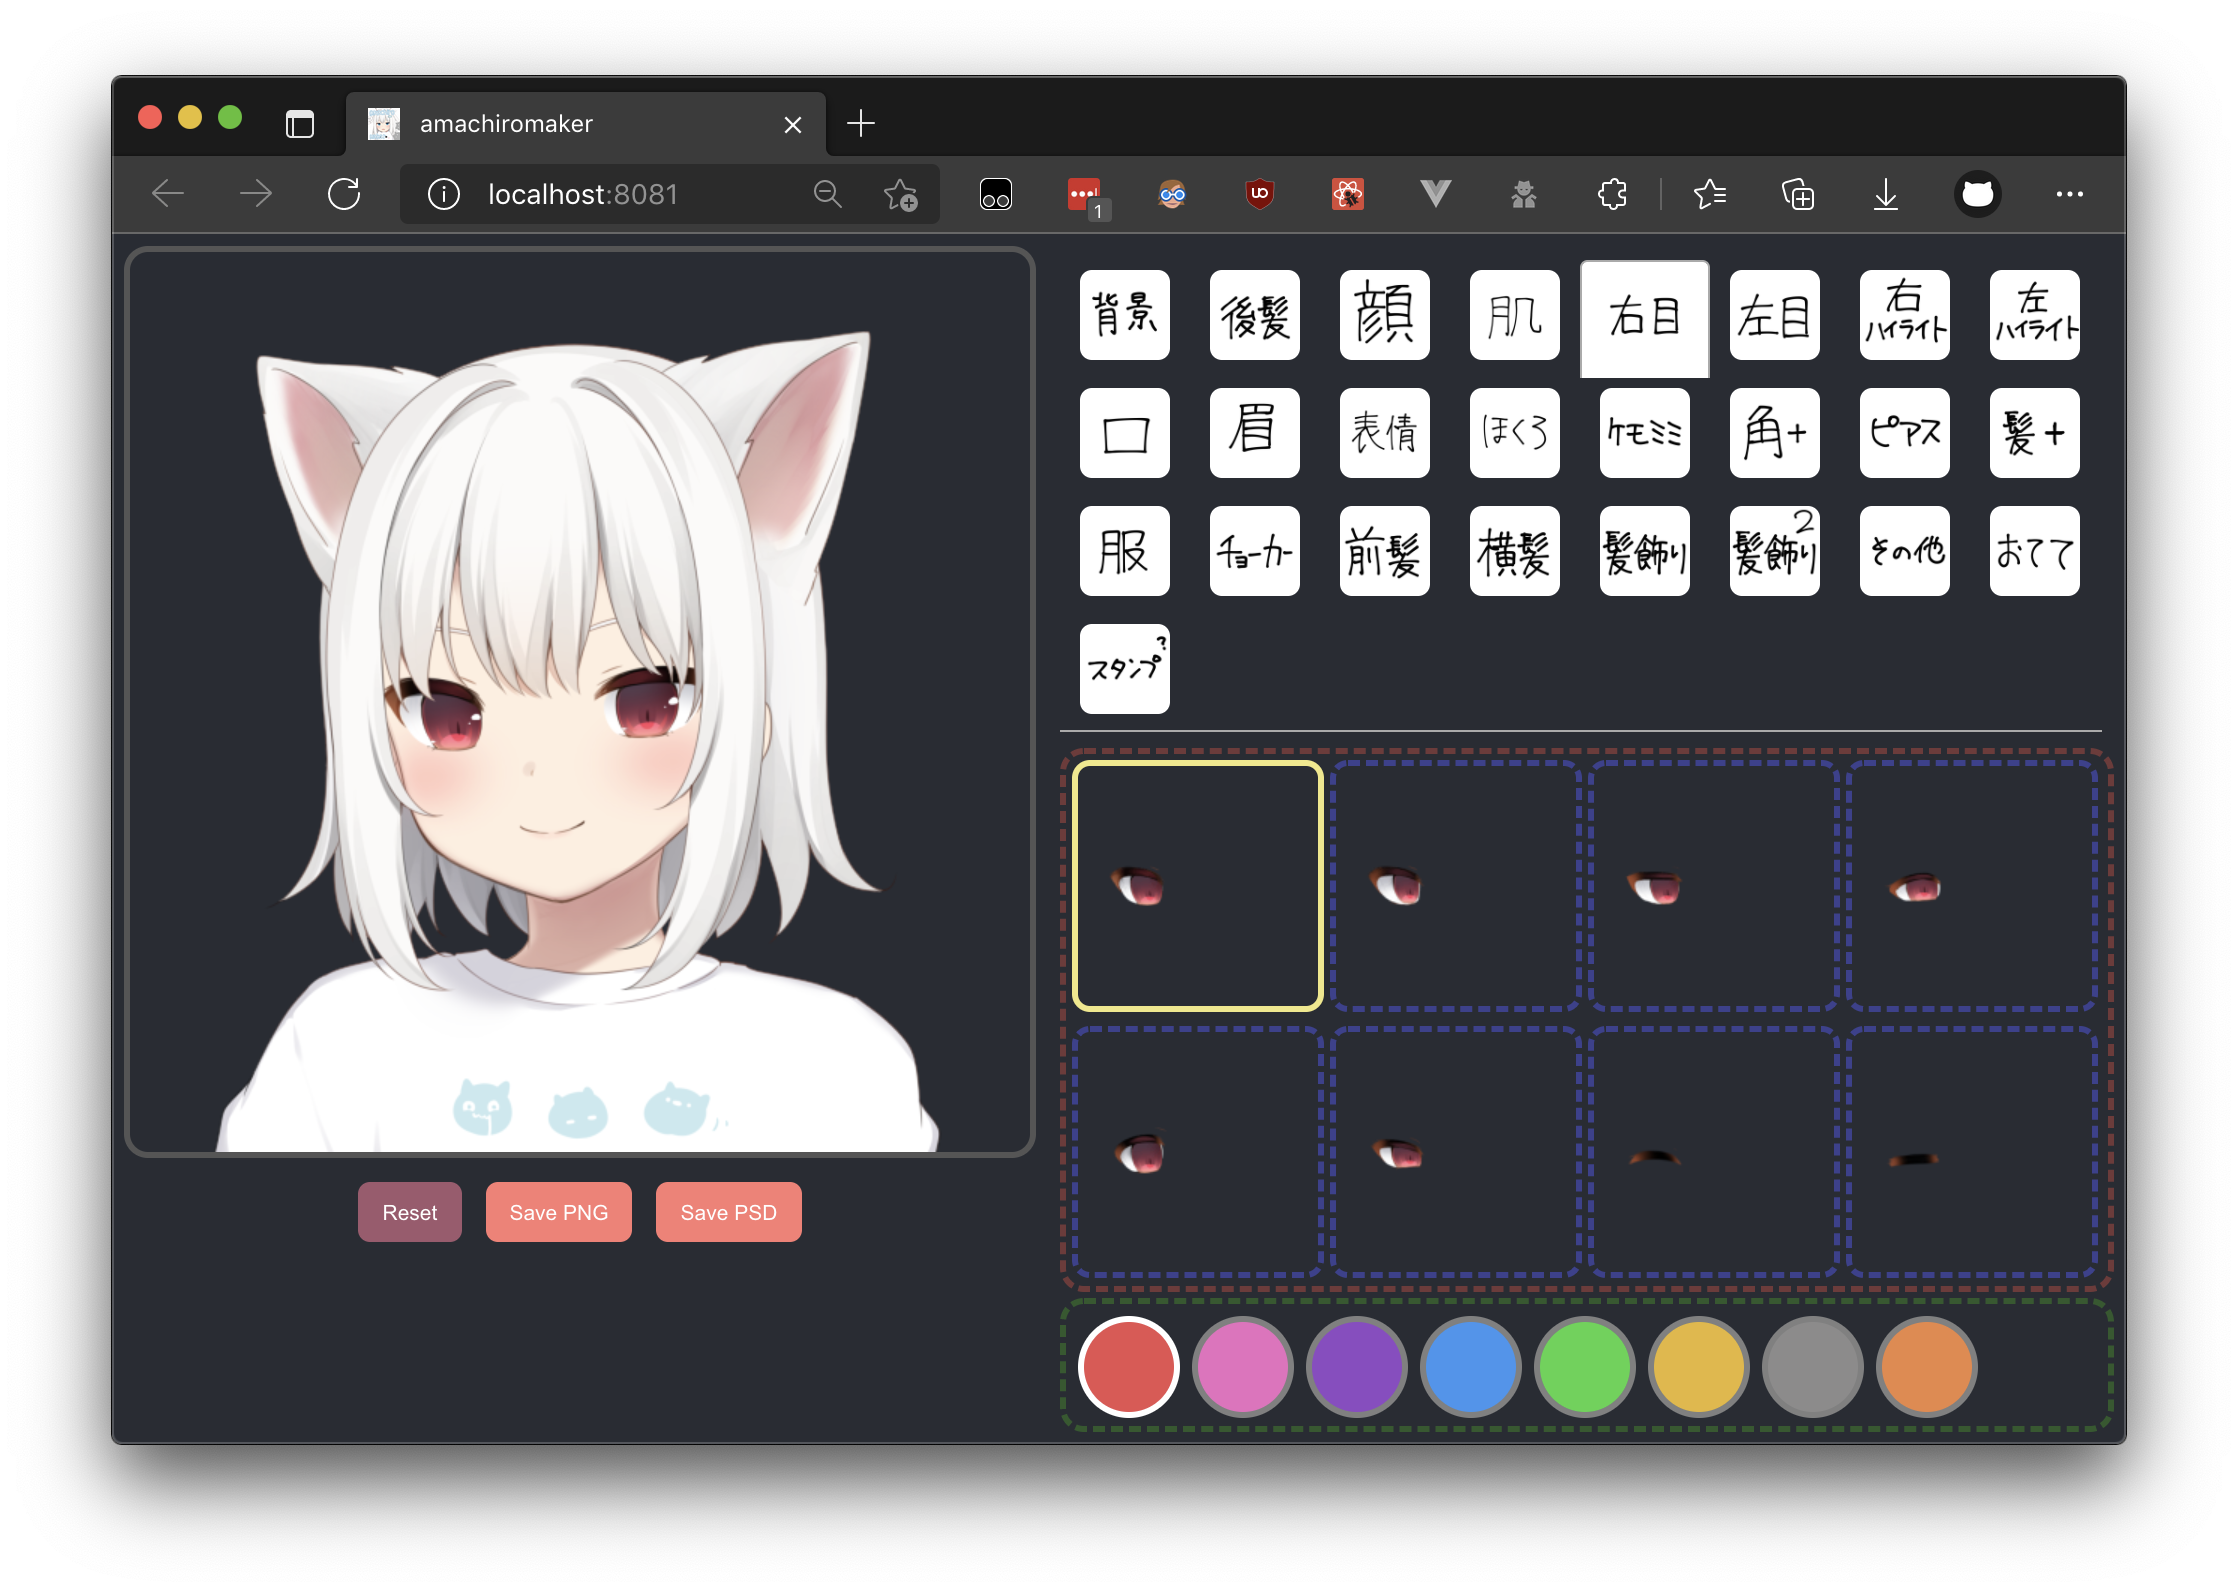
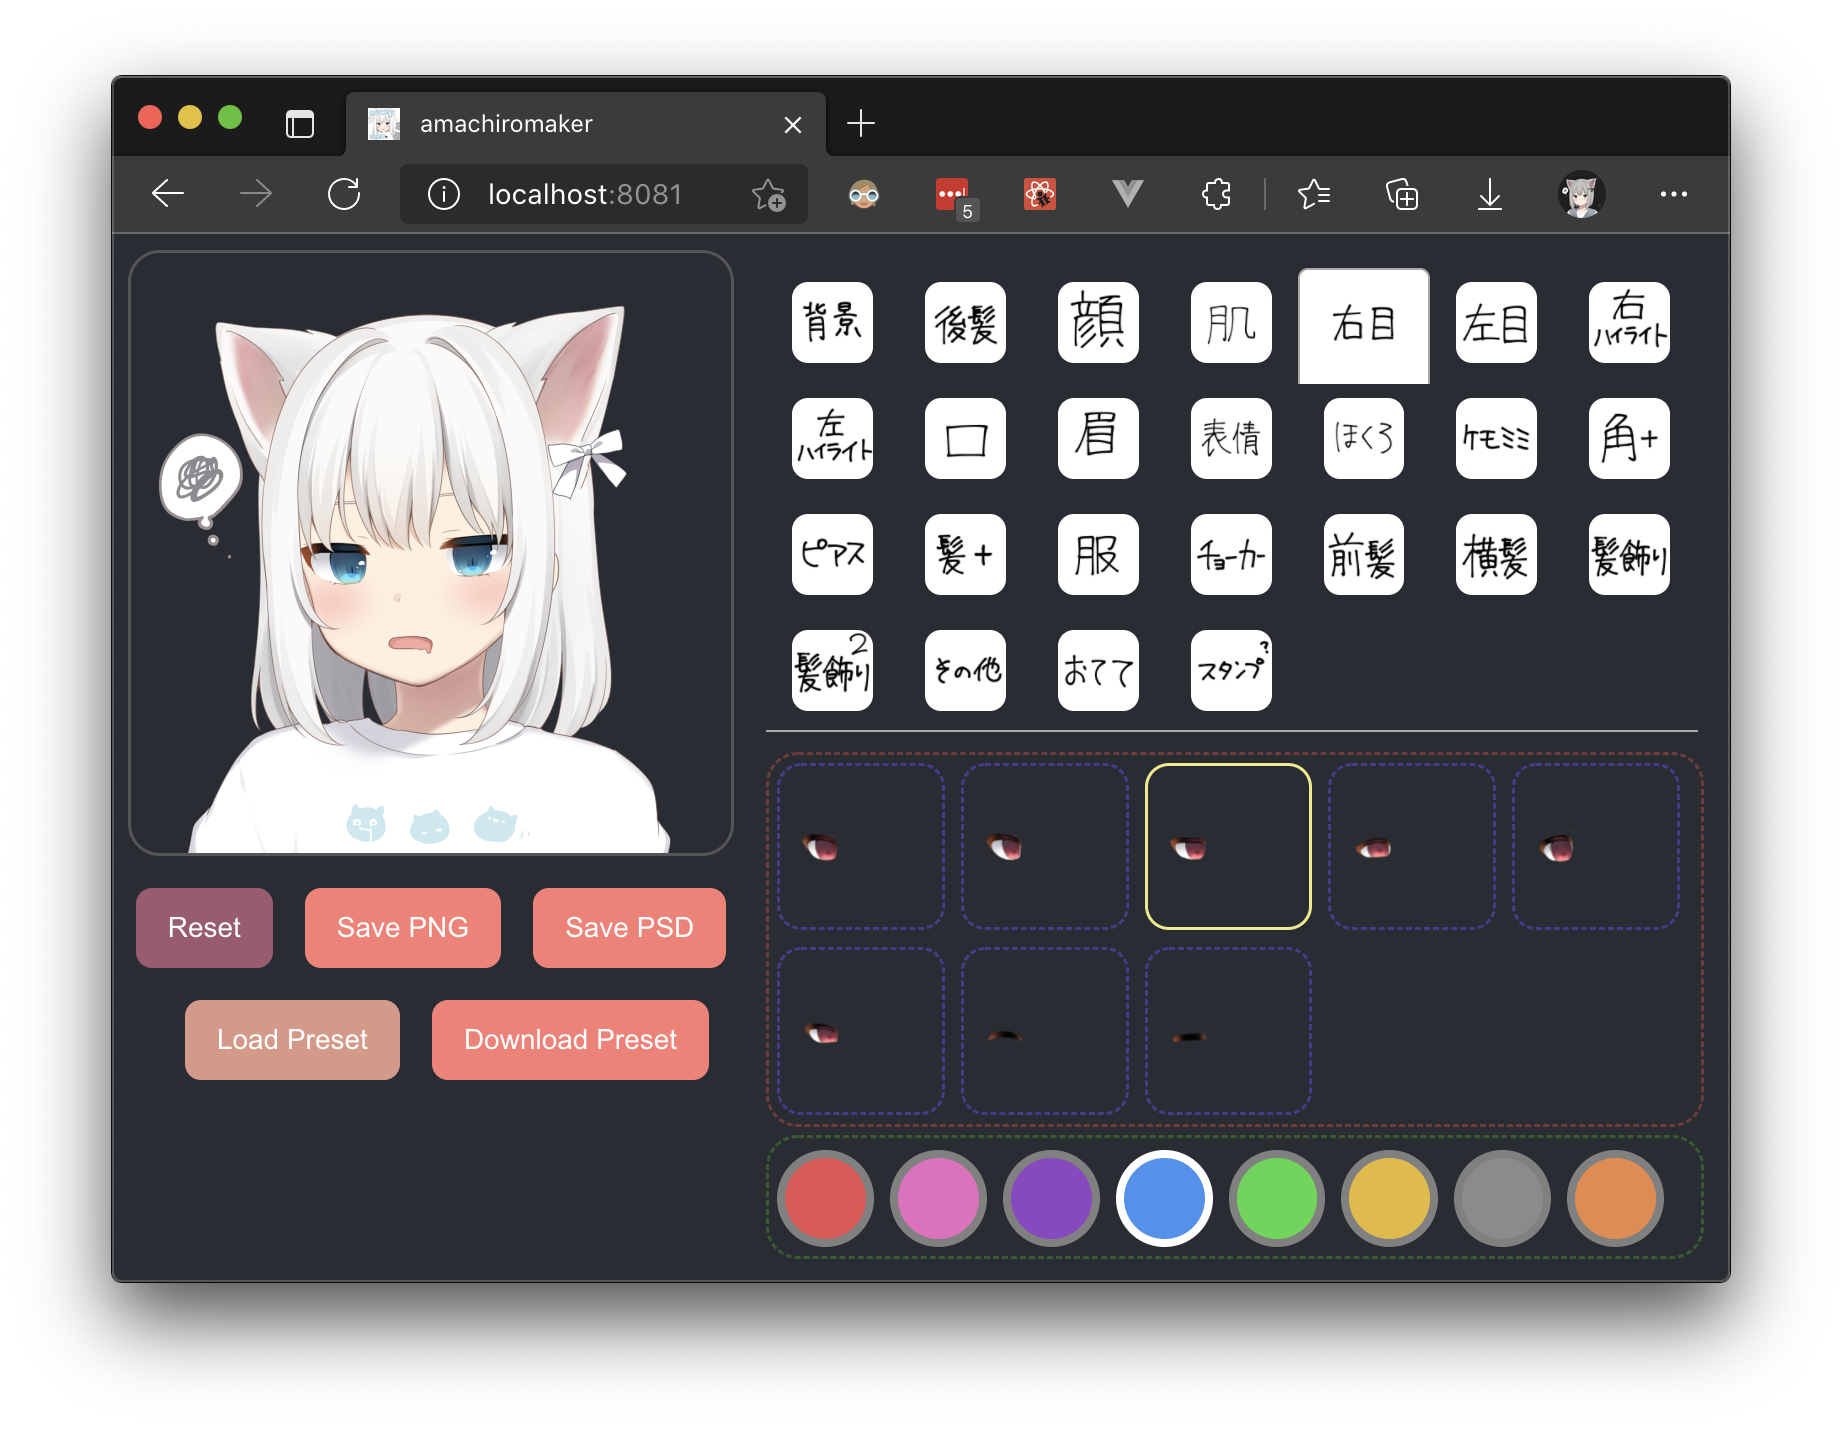
docs: update screenshots with the latest features

diff --git a/README.md b/README.md
@@ -53,12 +53,12 @@ Preferably:
 
 - `nginx` (example configuration is in [`nginx.conf`](https://github.com/charlie0129/amachiromaker/blob/master/nginx.conf))
 
-## Screenshots
+## Feature
 
 - Choose any combinations you want, with live preview.
-- Auto save. Your work will be preserved between page reloads.
-- Download as `PNG`.
-- Download as `PSD` for advanced users (with all the separate layers you can fiddle with).
+- Auto save. Your changes will be preserved between page reloads.
+- Download output image as `PNG` or `PSD` (with all the separate layers you can fiddle with).
+- Download raw layer combination presets. You can load the preset and make changes to it later.
 
 <p align="center">
   <figure>
@@ -66,7 +66,7 @@ Preferably:
   	<figcaption>Fig.1 - Screenshot</figcaption>
 	</figure>
   <figure>
-  	<img src="README.assets/example-gif.gif" alt="Animated GIF">
+  	<img width="90%" src="README.assets/gif-in-action.gif" alt="Animated GIF">
   	<figcaption>Fig.2 - Animated GIF</figcaption>
 	</figure>
   <figure>
@@ -76,6 +76,7 @@ Preferably:
   <p align="center">Any of the artwork above will <b><i>not</i></b> be provided in this repository.</p>
   <p align="center">Copyright of the artwork belongs to the original author.</p>
 </p>
+
 
 ## Description of the Scripts
 
